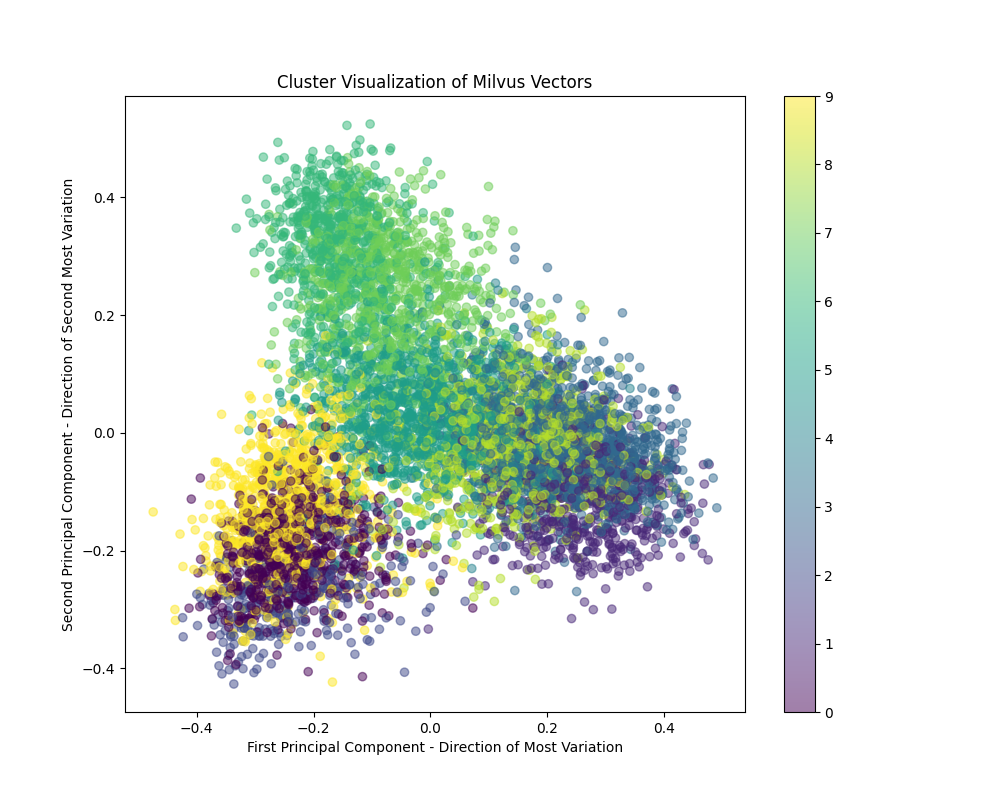
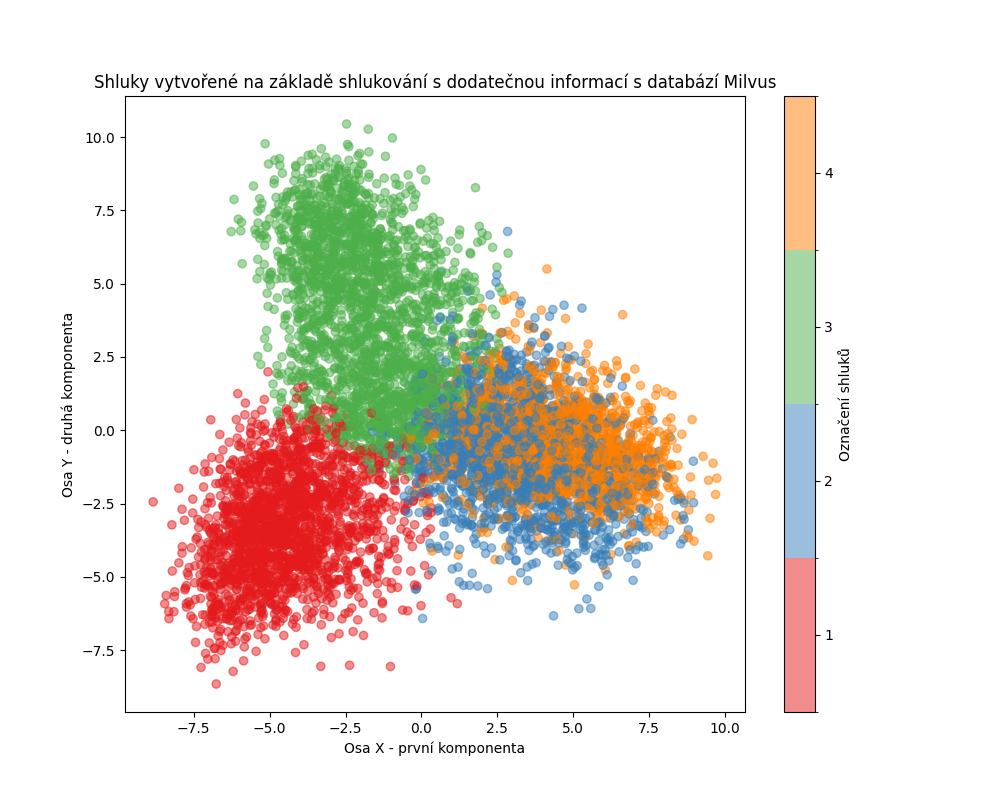
Added actual versions

diff --git a/milvus_clustering.py b/milvus_clustering.py
@@ -6,7 +6,9 @@ from dotenv import load_dotenv
 from pymilvus import connections, Collection, utility
 from sklearn.cluster import KMeans
 from sklearn.decomposition import PCA
-from scipy.spatial.distance import cdist
+from sklearn.preprocessing import StandardScaler
+from matplotlib.colors import ListedColormap, BoundaryNorm
+import time
 
 # Load environment variables
 load_dotenv()
@@ -17,7 +19,7 @@ endpoint = os.getenv('MILVUS_ENDPOINT')
 connections.connect(uri=endpoint, token=token)
 
 # Define the collection name
-collection_name = "semanticsearch"
+collection_name = "clusteringenriched"
 
 # Check if the collection exists
 if not utility.has_collection(collection_name):
@@ -31,46 +33,56 @@ collection = Collection(name=collection_name)
 # Assuming vectors are stored with integer IDs from 1 to 7600
 ids_list = [i for i in range(1, 7601)]
 
-# Function to fetch vectors in batches
-def fetch_vectors_in_batches(ids, batch_size=100):
-    vectors = []
+# Function to fetch vectors and additional data in batches
+def fetch_data_in_batches(ids, batch_size=100):
+    full_data = []
+    start_time = time.time()
     for i in range(0, len(ids), batch_size):
         batch_ids = ids[i:i + batch_size]
         expr = f"id in {batch_ids}"
-        # Note: Make sure the field name 'vector' is correct
-        result = collection.query(expr, output_fields=["vector"])
-        vectors.extend([item["vector"] for item in result])
-    return np.array(vectors)
+        result = collection.query(expr, output_fields=["vector", "polarity", "subjectivity", "id"])
+        full_data.extend([{
+            'vector': item["vector"],
+            'polarity': item["polarity"],
+            'subjectivity': item["subjectivity"],
+            'id': item["id"]
+        } for item in result])
+    end_time = time.time()
+    print(f"Overall query execution time: {end_time - start_time} seconds")
+    return pd.DataFrame(full_data)
 
-# Fetch vectors in batches; adjust batch size as needed
-vectors = fetch_vectors_in_batches(ids_list, batch_size=100)
+# Fetch data
+data = fetch_data_in_batches(ids_list)
+
+# Normalize features
+scaler = StandardScaler()
+features = np.hstack((np.array(data['vector'].tolist()), 
+                      np.expand_dims(data['polarity'], axis=1), 
+                      np.expand_dims(data['subjectivity'], axis=1)))
+normalized_features = scaler.fit_transform(features)
 
 # Clustering with KMeans
-n_clusters = 10
+n_clusters = 4
 kmeans = KMeans(n_clusters=n_clusters, random_state=0)
-kmeans.fit(vectors)
-cluster_labels = kmeans.labels_
+kmeans.fit(normalized_features)
 
-# Dimensionality Reduction for visualization
+# PCA for dimensionality reduction
 pca = PCA(n_components=2)
-vectors_reduced = pca.fit_transform(vectors)
+features_reduced = pca.fit_transform(normalized_features)
 
 # Plotting the clusters
 plt.figure(figsize=(10, 8))
-scatter = plt.scatter(vectors_reduced[:, 0], vectors_reduced[:, 1], c=cluster_labels, cmap='viridis', alpha=0.5)
-plt.colorbar(scatter)
-plt.title('Cluster Visualization of Milvus Vectors')
-plt.xlabel('First Principal Component - Direction of Most Variation')
-plt.ylabel('Second Principal Component - Direction of Second Most Variation')
+cmap = ListedColormap(['#e41a1c', '#377eb8', '#4daf4a', '#ff7f00'])  # Red, Blue, Green, Orange
+norm = BoundaryNorm(np.arange(0, 4+1), cmap.N)
+
+scatter = plt.scatter(features_reduced[:, 0], features_reduced[:, 1], c=kmeans.labels_, cmap=cmap, norm=norm, alpha=0.5)
+cbar = plt.colorbar(scatter, ticks=np.linspace(0.5, n_clusters-0.5, n_clusters), label='Označení shluků')
+cbar.ax.set_yticklabels(np.arange(1, n_clusters+1))  # Update tick labels for clarity
+plt.title('Shluky vytvořené na základě shlukování s dodatečnou informací s databází Milvus')
+plt.xlabel('Osa X - první komponenta')
+plt.ylabel('Osa Y - druhá komponenta')
 plt.savefig('milvus_cluster_visualization.png')
 plt.show()
-
-# Closest vector to each cluster's centroid
-distances = cdist(vectors, kmeans.cluster_centers_, 'euclidean')
-closest_indices = np.argmin(distances, axis=0)
-for i, idx in enumerate(closest_indices):
-    vector_id = ids_list[idx]
-    print(f"Cluster {i+1}, Vector ID closest to centroid: {vector_id}")
 
 # Disconnect from Milvus
 connections.disconnect()

diff --git a/pinecone_clustering.py b/pinecone_clustering.py
@@ -8,6 +8,7 @@ from sklearn.cluster import KMeans
 from sklearn.decomposition import PCA
 import time
 from concurrent.futures import ThreadPoolExecutor
+from matplotlib.colors import ListedColormap, BoundaryNorm
 
 # Load environment variables
 load_dotenv()
@@ -59,7 +60,7 @@ def perform_clustering(data):
     subjectivity = np.expand_dims(data['subjectivity'], axis=1)
     features = np.hstack((vectors, polarity, subjectivity))  # Combine vectors with polarity and subjectivity
 
-    n_clusters = 3  # Specify the number of clusters
+    n_clusters = 4  # Specify the number of clusters
     kmeans_combined = KMeans(n_clusters=n_clusters, random_state=0)
     kmeans_combined.fit(features)  # Clustering with combined features
 
@@ -72,13 +73,14 @@ def perform_clustering(data):
 # Perform clustering
 combined_reduced, kmeans_combined_labels = perform_clustering(data)
 
-# Plotting the clusters
-# Vykreslení clusterů
 plt.figure(figsize=(10, 8))
-scatter2 = plt.scatter(combined_reduced[:, 0], combined_reduced[:, 1], c=kmeans_combined_labels, cmap='viridis', alpha=0.5)
-plt.colorbar(scatter2, label='Štítky clusterů (každá barva představuje jiný cluster)')
-plt.title('Clustery vytvořené na základě textového obsahu s analýzou sentimentu')
-plt.xlabel('Integrace rozptylu textu a sentimentu')
-plt.ylabel('Sekundární rozptyl z kombinovaných prvků')
-plt.savefig("Pinecone clustering")
+cmap = ListedColormap(['#e41a1c', '#377eb8', '#4daf4a', '#ff7f00'])  # Red, Blue, Green, Orange
+norm = BoundaryNorm(np.arange(0, 4+1), cmap.N)
+
+scatter2 = plt.scatter(combined_reduced[:, 0], combined_reduced[:, 1], c=kmeans_combined_labels, cmap=cmap, norm=norm, alpha=0.5)
+cbar = plt.colorbar(scatter2, label='Označení shluků')
+plt.title('Shluky vytvořené na základě shlukování s dodatečnou informací s databází Pinecone')
+plt.xlabel('Osa X - první komponenta')
+plt.ylabel('Osa Y - druhá komponenta')
+plt.savefig("Pinecone clustering.png")
 plt.show()

diff --git a/semantic_search_milvus.py b/semantic_search_milvus.py
@@ -1,6 +1,7 @@
 import json
 import pandas as pd
 import os
+import time
 
 from pymilvus import MilvusClient
 from sentence_transformers import SentenceTransformer
@@ -17,10 +18,10 @@ TOKEN = token
 client = MilvusClient(uri=CLUSTER_ENDPOINT, token=TOKEN)
 
 # Load a pre-trained sentence transformer model
-model = SentenceTransformer('all-MiniLM-L6-v2')
+model = SentenceTransformer('paraphrase-MiniLM-L6-v2')
 
 # Your query sentence
-query_sentence = "Technology company produced new software"
+query_sentence = "Technology company released new software"
 
 # Convert the query sentence to an embedding
 query_embedding = model.encode(query_sentence)
@@ -28,12 +29,16 @@ query_embedding = model.encode(query_sentence)
 # Convert the embedding into a list format that Milvus can understand
 query_embedding_list = [query_embedding.tolist()]
 
+start_time = time.time()
 results = client.search(
     collection_name="semanticsearch",
     data=query_embedding_list,
-    limit=5,
+    limit=10,
     search_params={"metric_type": "COSINE", "params": {}} 
 )
+end_time = time.time()
 
+final_time = end_time - start_time
+print(f"Response time = {final_time}")
 result = json.dumps(results, indent=4)
 print(result)

diff --git a/vector_to_milvus.py b/vector_to_milvus.py
@@ -17,7 +17,7 @@ TOKEN = token
 client = MilvusClient(uri=CLUSTER_ENDPOINT, token=TOKEN)
 
 # Check if the collection exists
-collection_name = "agdataset"
+collection_name = "clusteringenriched"
 if not client.has_collection(collection_name):
     # Create the collection if it does not exist
     client.create_collection(
@@ -30,7 +30,7 @@ else:
     print(f"Collection '{collection_name}' already exists.")
 
 # Load data from CSV
-data = pd.read_csv("test_bez_upravy.csv", delimiter=';')
+data = pd.read_csv("enriched.csv", delimiter=',')
 
 # Initialize the Sentence Transformer model
 model = SentenceTransformer('all-MiniLM-L6-v2')
@@ -49,9 +49,9 @@ to_insert = [
         "vector": row['vector'],
         "topic": row['topic'],
         "title": row['title'],
-        "description": row['description'][:1024]
-        # "polarity": row['polarity'],
-        # "subjectivity": row['subjectivity']
+        "description": row['description'][:1024],
+        "polarity": row['polarity'],
+        "subjectivity": row['subjectivity']
     }
     for index, row in data.iterrows()
 ]

diff --git a/postgres_clustering.py b/postgres_clustering.py
@@ -59,14 +59,19 @@ pca = PCA(n_components=2)
 features_reduced = pca.fit_transform(features)
 
 # Plotting the clusters
+# Plot setup
 plt.figure(figsize=(10, 8))
 cmap = ListedColormap(['#e41a1c', '#377eb8', '#4daf4a', '#ff7f00'])  # Red, Blue, Green, Orange
 norm = BoundaryNorm(np.arange(0, n_clusters+1), cmap.N)
 
 scatter = plt.scatter(features_reduced[:, 0], features_reduced[:, 1], c=kmeans.labels_, cmap=cmap, norm=norm, alpha=0.5)
 cbar = plt.colorbar(scatter, label='Označení shluků')
-plt.title('Shluky vytvořené na základě dodatečných informací')
-plt.xlabel('První hlavní komponenta')
-plt.ylabel('Druhá hlavní komponenta')
+plt.title('Shluky vytvořené na základě shlukování s dodatečnou informací s databází PostgreSQL')
+plt.xlabel('Osa X - první komponenta')
+plt.ylabel('Osa Y - druhá komponenta')
+
+# Adjust the plot margins
+plt.subplots_adjust(left=0.1, right=0.9, top=0.9, bottom=0.1)
+
 plt.savefig('postgres_cluster_visualization.png')
 plt.show()

diff --git a/semantic_search_postgres.py b/semantic_search_postgres.py
@@ -4,6 +4,7 @@ import numpy as np
 import os
 from sentence_transformers import SentenceTransformer
 from dotenv import load_dotenv
+import time
 
 # Load the Sentence Transformer model
 model = SentenceTransformer('paraphrase-MiniLM-L6-v2')
@@ -33,6 +34,9 @@ class_to_topic = {
     3: 'Business',
     4: 'Sci/Tech'
 }
+
+# Start tracking time for database query
+start_time = time.time()
 
 conn = psycopg2.connect(**conn_params)
 cur = conn.cursor(cursor_factory=psycopg2.extras.DictCursor)
@@ -65,9 +69,14 @@ for row in cur:
 cur.close()
 conn.close()
 
+# End tracking time for database query
+end_time = time.time()
+query_time = end_time - start_time
+print(f"Querying time: {query_time} seconds")
+
 # Sort results by similarity and get top 5
 results.sort(key=lambda x: x[4], reverse=True)  # sort by similarity in descending order
-top_5_results = results[:5]
+top_5_results = results[:10]
 
 # Display the top 5 results with better formatting
 print("Top 5 Similar Entries:")

diff --git a/semantic_search_pinecone.py b/semantic_search_pinecone.py
@@ -34,7 +34,7 @@ if index_name not in pc.list_indexes().names():
 index = pc.Index(index_name)
 
 # Encode the query text
-query_text = "WTA tennis tournament"
+query_text = "Technology company released new software"
 query_embedding = model.encode(query_text, convert_to_tensor=True).tolist()
 
 start_time = time.time()
@@ -42,7 +42,7 @@ start_time = time.time()
 # Perform semantic search
 results = index.query(
     vector=[query_embedding],
-    top_k=5,
+    top_k=10,
     include_metadata=True
 )
 
@@ -58,6 +58,7 @@ for result in results['matches']:
     search_results.append({'id': idx, 'description': description, 'similarity': similarity, 'topic': topic})
 
 print(f"Query time - {end_time - start_time} seconds")
+
 # Print the search results
 print("Search results for query:", query_text)
 for result in search_results:
